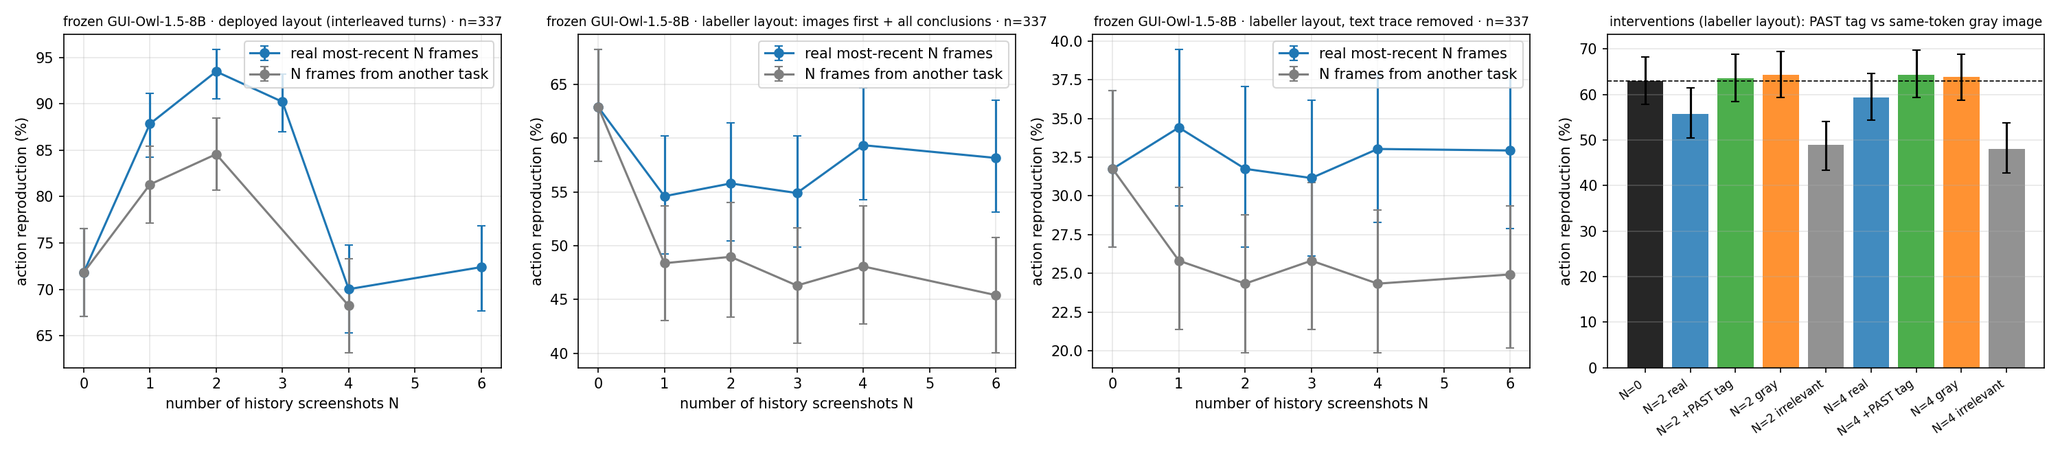
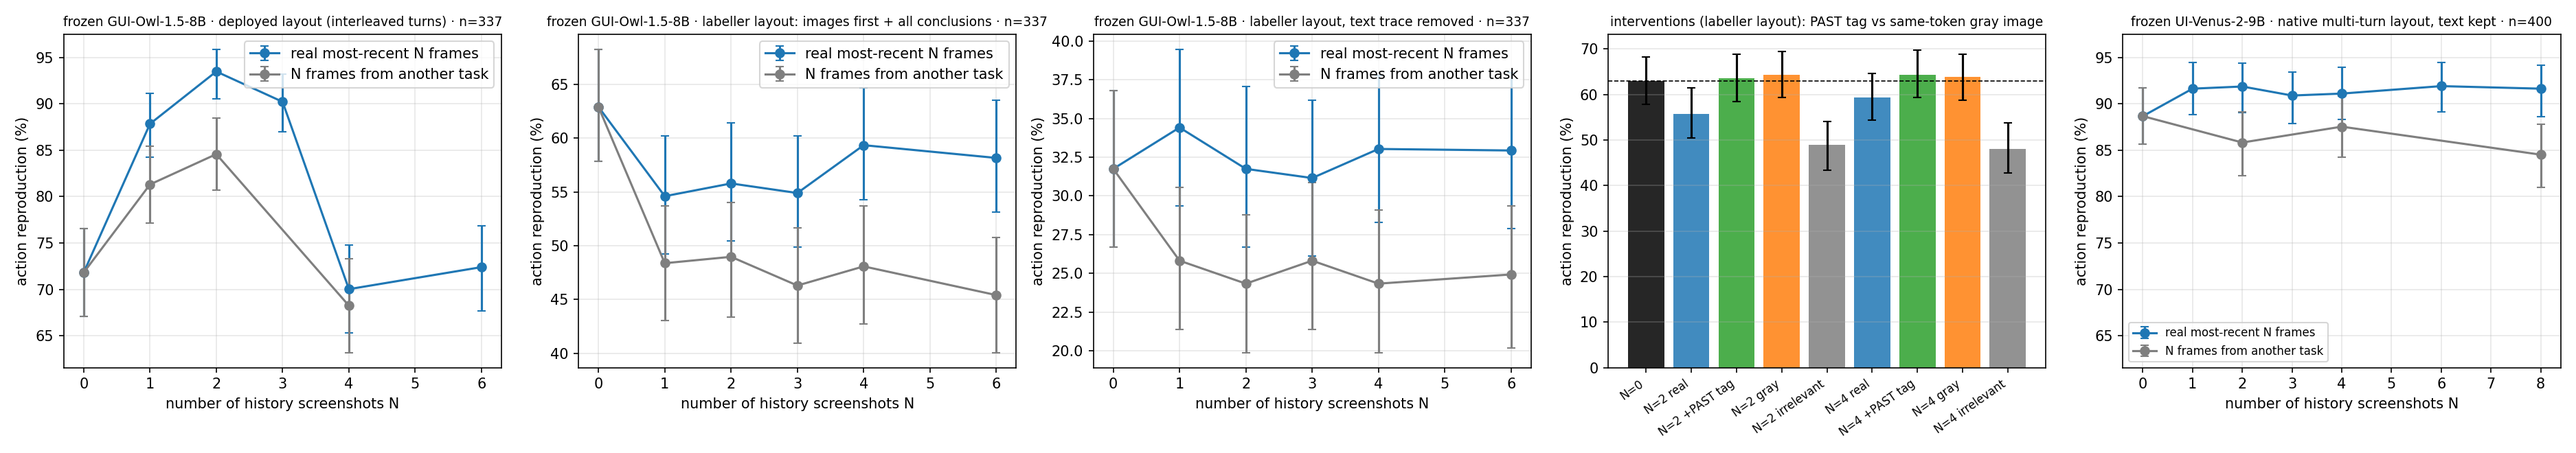
harm: 主图加 UI-Venus 面板;台账时间戳改为实际 PT;对账环境核对补记

diff --git a/rl/harm/code/plot_harm_vs_n.py b/rl/harm/code/plot_harm_vs_n.py
@@ -1,5 +1,5 @@
 # note (luojiaxuan): history-harm 第一张图——动作复现率 vs 历史图数 N(recN 真实最近帧 / irrN 无关帧),两种协议两个面板;
-# 第三面板:干预(rec2/rec4 的 PAST 标记版与灰图版)。误差棒 = 按状态 bootstrap 95% CI。输入 harm_vs_n_base_{text,notext}.jsonl。
+# 第四面板:干预(rec2/rec4 的 PAST 标记版与灰图版);第五面板:UI-Venus-2-9B 的 N 扫描(跨模型)。误差棒 = 按状态 bootstrap 95% CI。
 import json, os, random, statistics as st, sys
 import matplotlib; matplotlib.use("Agg"); import matplotlib.pyplot as plt
 H = "/data01/jaxan/harm"
@@ -14,7 +14,7 @@ def series(rows, specs):
         if v: lo, hi = ci(v); out[sp] = (st.mean(v), lo, hi, len(v))
     return out
 Ns = [0, 1, 2, 3, 4, 6]
-fig, axes = plt.subplots(1, 4, figsize=(20, 4.4))
+fig, axes = plt.subplots(1, 5, figsize=(25, 4.4))
 summary = {}
 for ax, proto, title in ((axes[0], "deploy", "deployed layout (interleaved turns)"), (axes[1], "text", "labeller layout: images first + all conclusions"), (axes[2], "notext", "labeller layout, text trace removed")):
     rows = load(f"{H}/harm_vs_n_base_{proto}.jsonl")
@@ -39,6 +39,18 @@ if rows:
     ax.bar(xs, ys, yerr=err, capsize=3, color=cols, alpha=.85); ax.set_xticks(xs); ax.set_xticklabels(labels, rotation=35, ha="right", fontsize=8)
     ax.set_ylabel("action reproduction (%)"); ax.set_title("interventions (labeller layout): PAST tag vs same-token gray image", fontsize=9); ax.grid(axis="y", alpha=.3)
     if "rec0" in S: ax.axhline(100*S["rec0"][0], ls="--", color="k", lw=.8)
+ax = axes[4]; rows = load(f"{H}/harm_vs_n_venus_text.jsonl")
+if rows:
+    VN = [0, 1, 2, 3, 4, 6, 8]
+    S = series(rows, [f"rec{n}" for n in VN] + ["irr2", "irr4", "irr8"]); summary["venus"] = S
+    for kind, lab, c in (("rec", "real most-recent N frames", "tab:blue"), ("irr", "N frames from another task", "tab:gray")):
+        xs = [n for n in VN if f"{kind}{n}" in S or (kind == "irr" and n == 0 and "rec0" in S)]
+        ys, lo, hi = [], [], []
+        for n in xs:
+            k = "rec0" if (kind == "irr" and n == 0) else f"{kind}{n}"; m, l, h, _ = S[k]; ys.append(100*m); lo.append(100*(m-l)); hi.append(100*(h-m))
+        ax.errorbar(xs, ys, yerr=[lo, hi], marker="o", capsize=3, label=lab, color=c)
+    ax.set_xlabel("number of history screenshots N"); ax.set_ylabel("action reproduction (%)"); ax.set_title(f"frozen UI-Venus-2-9B · native multi-turn layout, text kept · n={len(rows)}", fontsize=9); ax.grid(alpha=.3); ax.legend(fontsize=8)
+    ax.set_ylim(axes[0].get_ylim())
 plt.tight_layout(); plt.savefig(f"{H}/fig1_harm_vs_n.png", dpi=150); print("saved", f"{H}/fig1_harm_vs_n.png")
 for proto, S in summary.items():
     print(f"\n[{proto}]"); [print(f"  {k:12s} {100*m:5.1f} [{100*l:5.1f}, {100*h:5.1f}] n={n}") for k, (m, l, h, n) in S.items()]

diff --git a/rl/harm/docs/ledger_harm_20260906.md b/rl/harm/docs/ledger_harm_20260906.md
@@ -20,7 +20,7 @@
   P3.3 注意力测量(待做,需要 HF transformers 前向)。
 
 ## 3. 台账(时间倒序)
-### 2026-09-06 15:50 PT 终止的触发条件:不是"轮数",也不是"图数",而是**指令消息之后、最近两轮之前堆了多少内容**(`turns_vs_images.py`,零 GPU,汇总已有解码)
+### 2026-09-06 14:50 PT 终止的触发条件:不是"轮数",也不是"图数",而是**指令消息之后、最近两轮之前堆了多少内容**(`turns_vs_images.py`,零 GPU,汇总已有解码)
 同一 337 态(hybridlast / hybridturn 为 307 态),部署布局,底座;"总 term%" = 终止动作占全部解码的比例:
 
 | 规格 | 带原文回复的轮数 | 图数 | 复现率 | 总 term% | 指令消息与最近两轮之间的内容 |
@@ -50,7 +50,7 @@
   (ii) `hybridturnin`:同样的 2 个参考轮改插到指令消息**之后**、最近两轮之前——若从 0.7% 升到 rec4 量级,说明"位置在指令之后"是必要条件,
   hybridturn 的安全来自放在指令之前。
   判据:(i) 终止率 <5% 且复现率 ≥85% → "动作序列触发";(i) 仍 >15% → "历史块长度触发";(ii) >15% → 位置条件成立。
-### 2026-09-06 15:20 PT H5′(目标稀释)的干预:指令重复到决策点 **无效**(`goal_interv_base.jsonl`,337 态,部署布局,底座)
+### 2026-09-06 14:43 PT H5′(目标稀释)的干预:指令重复到决策点 **无效**(`goal_interv_base.jsonl`,337 态,部署布局,底座)
 | 规格 | 复现率 | 错误中 terminate | vs 原样(配对 ±95%CI) |
 |---|---|---|---|
 | N=2 原样 / +指令重复 | 93.5 / 86.4 | 0 / 0% | **−7.1 ±3.5** |
@@ -67,7 +67,7 @@
   连 2 轮都不给),长交错窗口对它是分布外输入;Venus(原生多轮协议、训练时见过长窗口)的 N 扫描没有任何塌陷,与此一致。
 - 这条解释的可检验推论(下一步,不需要新数据):在 Venus 的 N 扫描里错误中的 terminate 占比应当与 N 无关(已有:3–7%,平);在 GUI-Owl 上
   终止率应随"带原文的 assistant 轮数"而非"图数"上升——用 `pickimg`(只加图不加轮)与 `recN`(加轮)在同一 N 下对比,数据已在 `format2_base.jsonl`。
-### 2026-09-06 15:05 PT 对账第 1 轮出数 + 与 8-24 对账运行逐题比较(`parity_tally.py` / `parity_env_audit.py` / `parity_retry_effect.py` / `parity_compare.py`)
+### 2026-09-06 14:38 PT 对账第 1 轮出数 + 与 8-24 对账运行逐题比较(`parity_tally.py` / `parity_env_audit.py` / `parity_retry_effect.py` / `parity_compare.py`)
 - 口径:官方默认协议(history_n=1,无历史截图,`CC_*` 不设),同一 harness(官方 repo @83e7b8f + CC 钩子;agent 文件与官方的差异只在 CC 选帧钩子,
   采样参数官方与现役均为温度 0 / top_p 1 / 2048 tokens),32 台全新模拟器、并发 32,vLLM 镜像与 8-24 相同(`vllm/vllm-omni:dev` = vllm-openai v0.24.0,ID 251eba5c)。
 - run1:**31/117 = 26.5%**(114 题有结果);8-24 对账运行(`mw/traj_full`)39/117 = 33.3%;官方榜单 38.2%。
@@ -78,6 +78,11 @@
 - 逐题:113 题两次都有结果,都成功 26、仅 8-24 成功 12、仅 run1 成功 5;翻转集中在 Mastodon(13/38 → 9/38),Mattermost 两次都是 0/15。
   同一系统两次运行翻转 17 题;单次运行标准差约 ±4pp(117 题、p≈0.3),8 题差距约 1.6σ,尚不能判为系统性退化。
 - run2 进行中:72 题 25 成功、0 次重试、暂 34.7%(run1 同期为 46 次不健康事件)——支持"run1 是池重建后的冷启动轮"的解释。
+- 14:53 PT 补:run2 到 111 题时 33 成功(28.2%)、36 次不健康事件——"冷启动"解释不成立,两轮都在 27–28%。逐项核对与 8-24 运行的差异:
+  eval 命令相同(`--max_round 50`,任务集同为 117);模拟器镜像同为 `sglang-omni:env0`(= 官方镜像,ID b680380e);容器起法与官方
+  `build_run_command` 等价(`--privileged` + 端口 + `.env` 挂载,官方额外只传 VNC/代理环境变量);兄弟 session 的 `install_pilot_tasks.sh`
+  只改了它自己的 p12/p13(p00/p20 的任务服务未被重启)。**没有找到 harness 层面的差异**;剩余候选是主机负载(224 核负载 122,8-24 时未记录)
+  与池内后端应用(Mastodon/Mattermost)的健康漂移。等 run3 出数后一并判定,并把三轮的按应用成功率与 8-24 并列。
 - 判定推迟到 3 轮完成:三轮均值落在 30–34% 且与 8-24 同分布 → 26.5% 记为运行方差 + 冷启动;均值仍 <30% → 查主机负载(现 load 122 / 224 核)对模拟器响应的影响。
 ### 2026-09-06 14:25 PT 跨模型:Venus 的 N 扫描(`harm_vs_n_venus_text.jsonl`,400 态,保留文本轨迹,其标注布局 = 部署布局)
 | N | 真实最近 N 帧 | 无关 N 帧 | 错误中 Finished |
